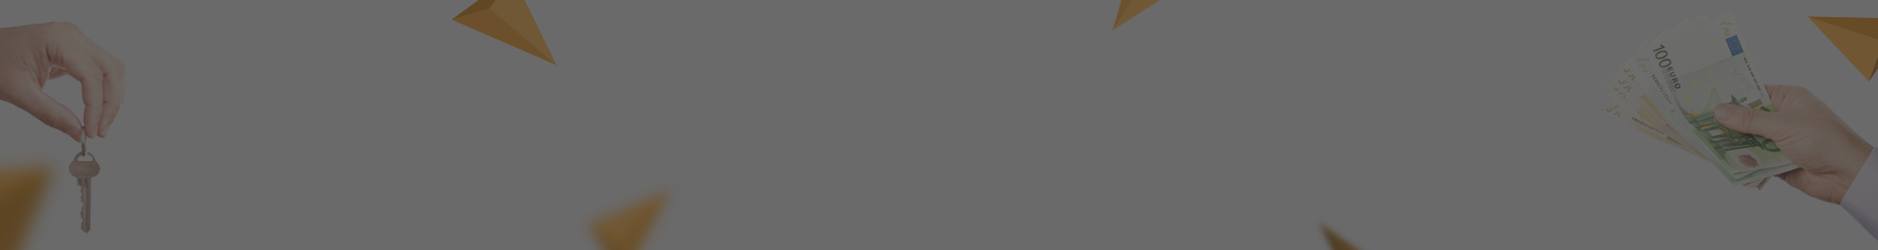
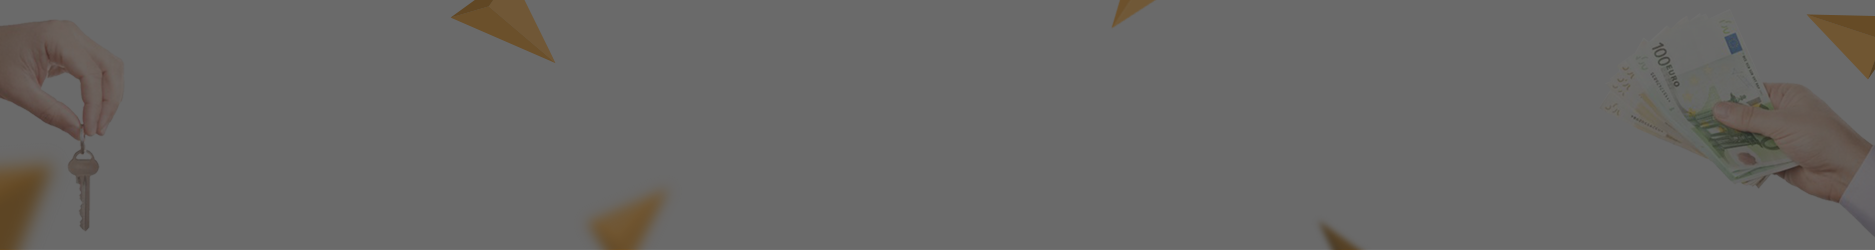
change bg-home-page + img utilisateur-caution

diff --git a/src/assets/stylesheets/layouts/_section-categories.scss b/src/assets/stylesheets/layouts/_section-categories.scss
@@ -1,4 +1,5 @@
 .section-categories {
   background-image: url("../img/bg-categories.png");
+  background-size: cover;
   padding: 2em;
 }
